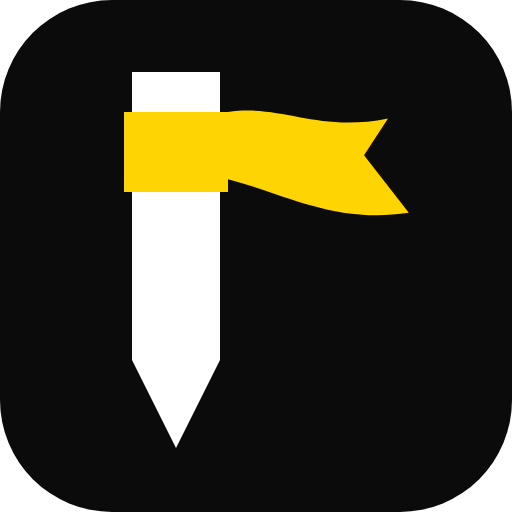
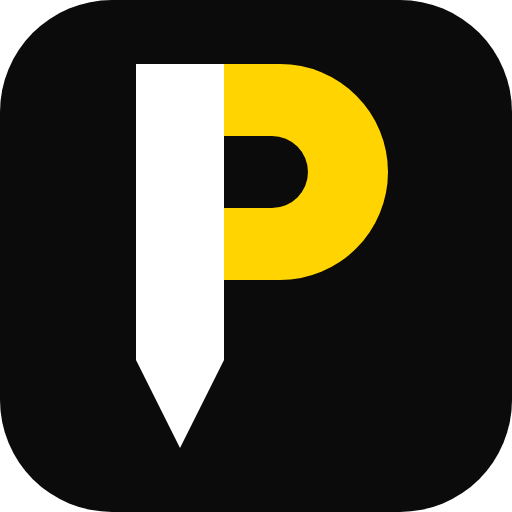
feat(brand): Peg P mark, and activity chips that key the dots
Colin picked the Peg P mark: a letter P whose stem is the survey peg.
public/favicon.svg is redrawn and icons.cjs regenerates the favicons,
touch icon, icon.png and share card from it, plus a reversed avatar on
hi-vis yellow for hosting dashboards (resources/brand/avatar.png).

The change filter chips on the activity page now carry each change's
dot colour, so they explain the dots on the list and the map.

Claude-Session: https://claude.ai/code/session_012Lfvx7tvsS4gNqTBkEcgio

diff --git a/resources/views/pages/activity.blade.php b/resources/views/pages/activity.blade.php
@@ -143,7 +143,10 @@ new #[Title('Activity')] class extends Component {
     <section class="mt-5 space-y-3" aria-label="{{ __('Filters') }}">
         <flux:checkbox.group wire:model.live="types" variant="pills" :label="__('Change')" class="flex flex-wrap gap-2">
             @foreach ($this::CHIPS as $key => $label)
-                <flux:checkbox :value="$key" :label="__($label)" class="max-sm:min-h-11 max-sm:px-3" />
+                {{-- The chips are the key to the dots on the list and the map. --}}
+                <flux:checkbox :value="$key" class="max-sm:min-h-11 max-sm:px-3">
+                    <span class="size-2 shrink-0 rounded-full ring-1 ring-white" style="background: {{ Format::eventColour($key) }}" aria-hidden="true"></span>{{ __($label) }}
+                </flux:checkbox>
             @endforeach
         </flux:checkbox.group>
         <flux:checkbox.group wire:model.live="kinds" variant="pills" :label="__('Tenement type')" class="flex flex-wrap gap-2">

diff --git a/resources/views/components/app-logo-icon.blade.php b/resources/views/components/app-logo-icon.blade.php
@@ -1,2 +1,2 @@
-{{-- The Pegwatch mark: a survey peg with hi-vis tape. One drawing, public/favicon.svg, inlined. --}}
+{{-- The Pegwatch mark: a letter P whose stem is a survey peg, its bowl in hi-vis yellow. One drawing, public/favicon.svg, inlined. --}}
 {!! str_replace('<svg ', '<svg aria-hidden="true" focusable="false" '.$attributes->class('shrink-0').' ', trim(file_get_contents(public_path('favicon.svg')))) !!}

diff --git a/app/Support/PageMeta.php b/app/Support/PageMeta.php
@@ -36,7 +36,7 @@ final class PageMeta
             self::DEFAULT_DESCRIPTION,
             $request->url(),
             asset('og.png'),
-            'The Pegwatch mark, a survey peg with hi-vis tape',
+            'The Pegwatch mark, a letter P whose stem is a survey peg',
         );
         $slug = $route?->parameter('slug');
 
